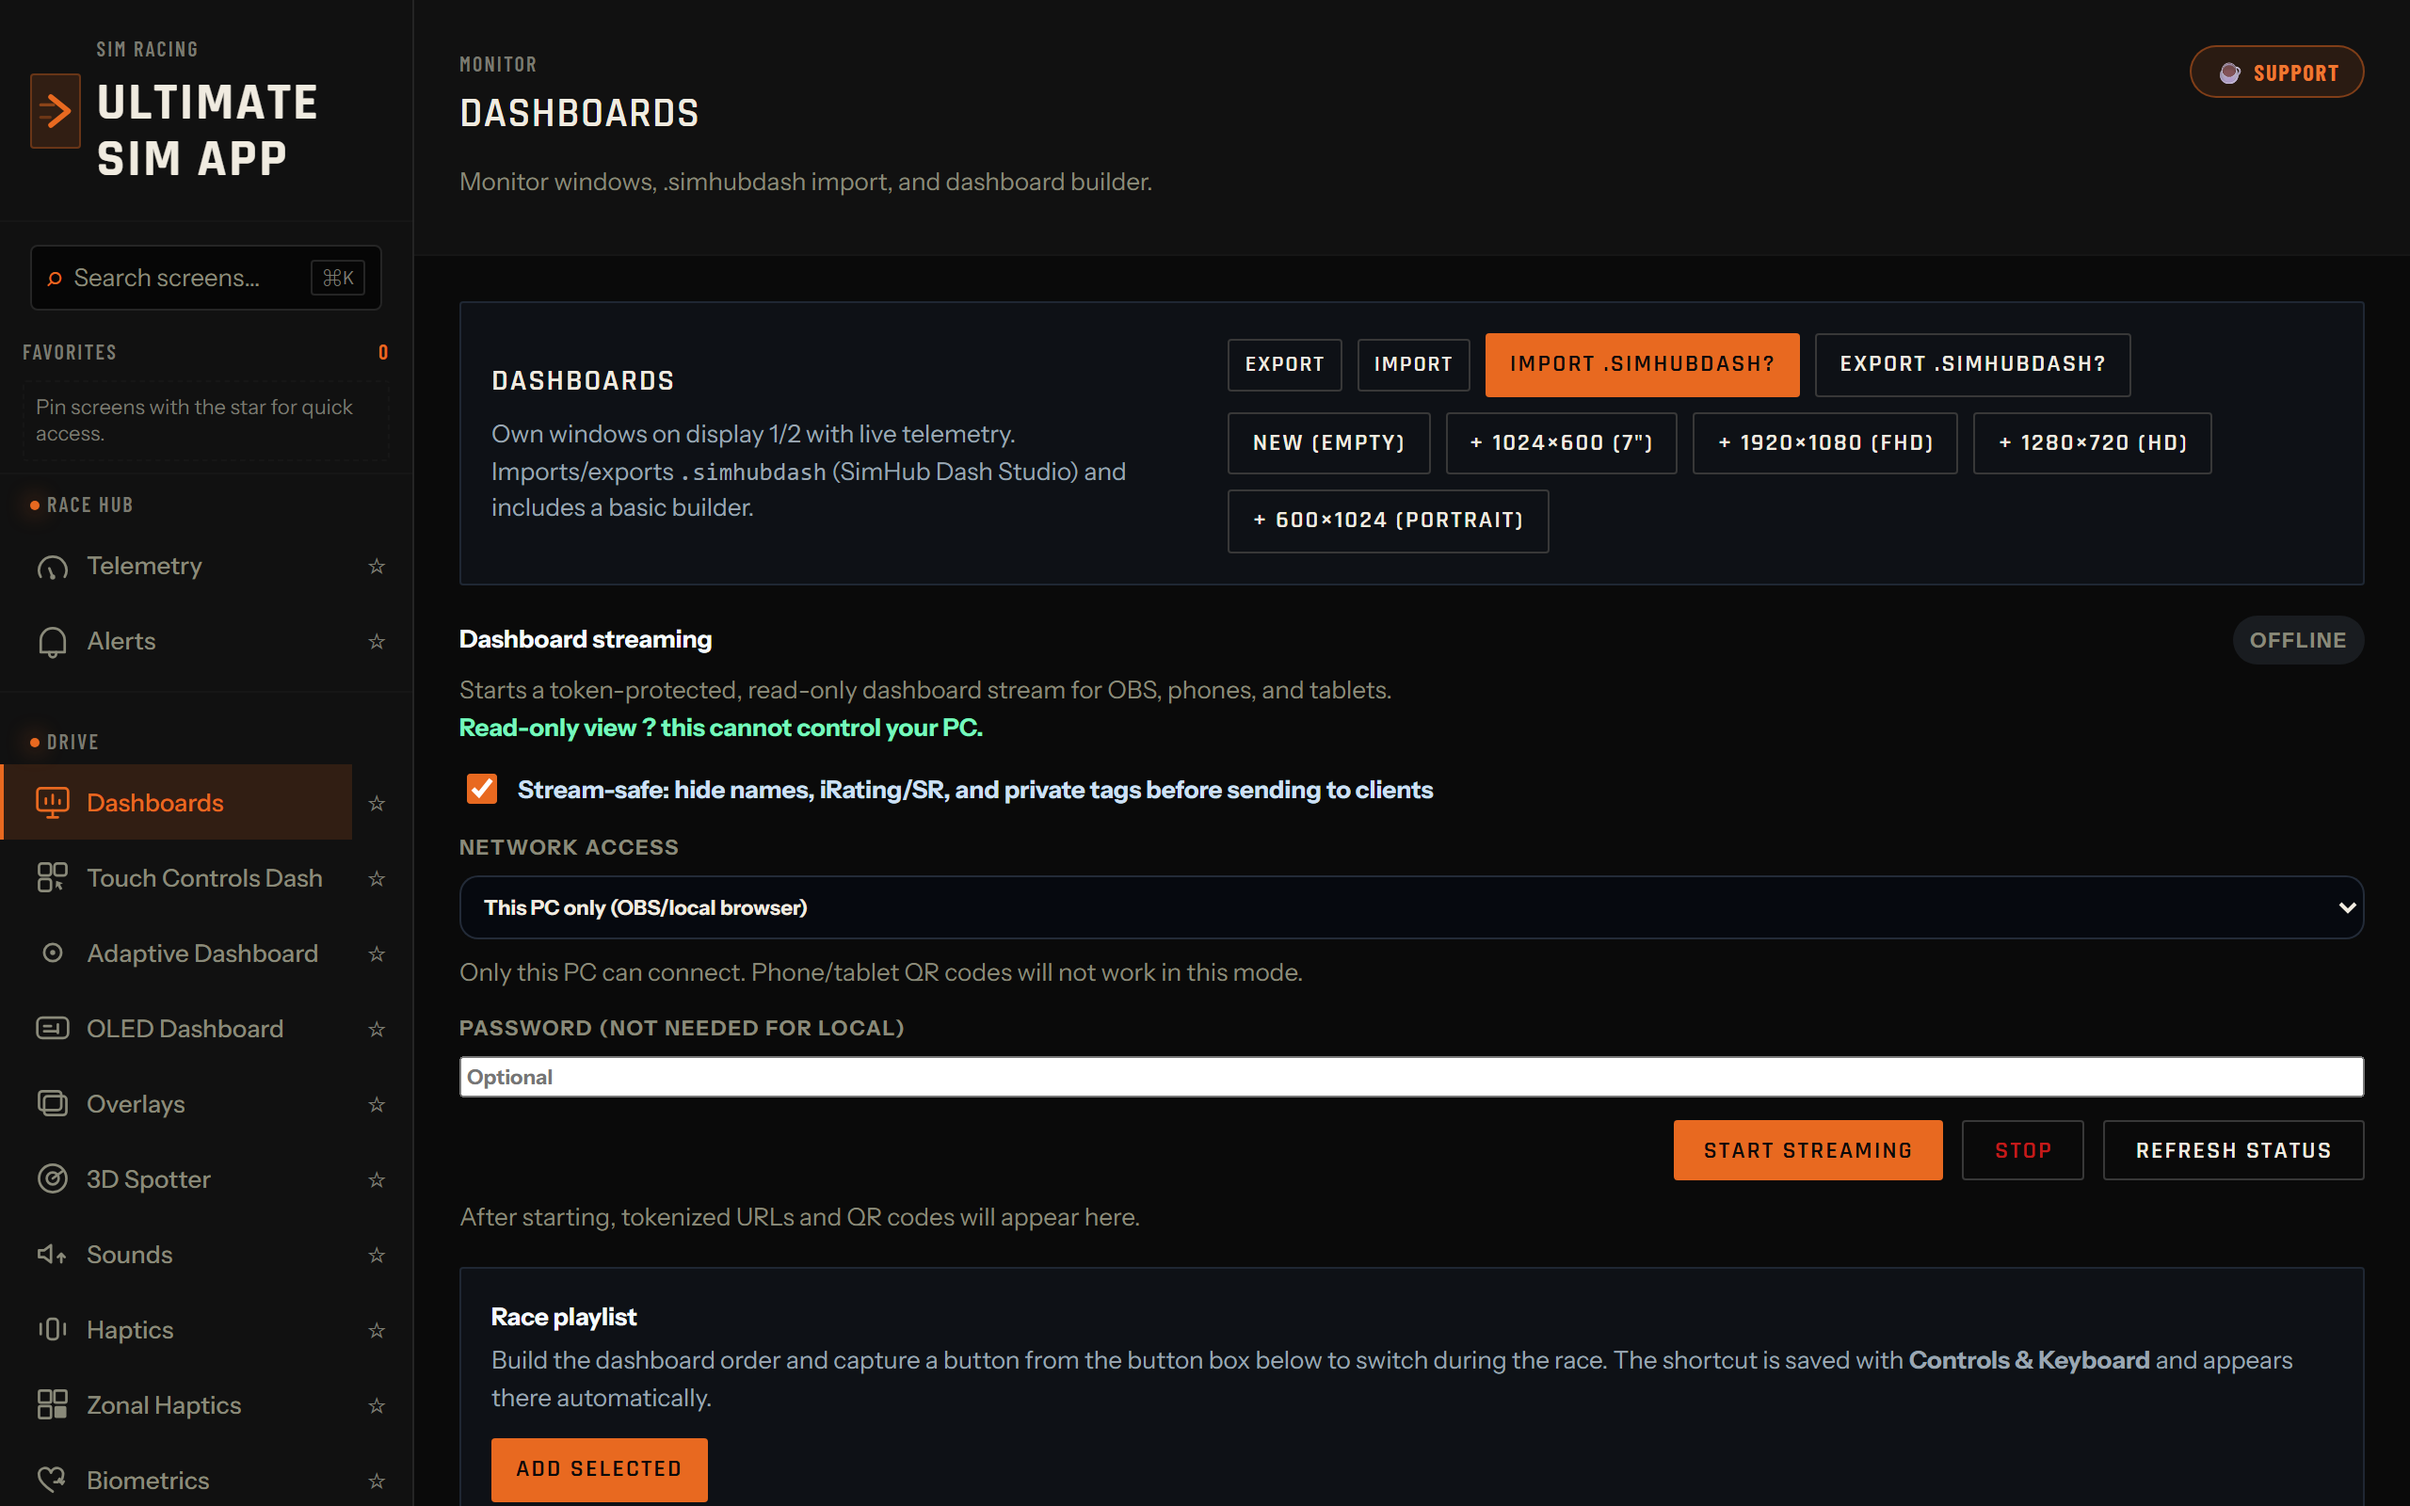
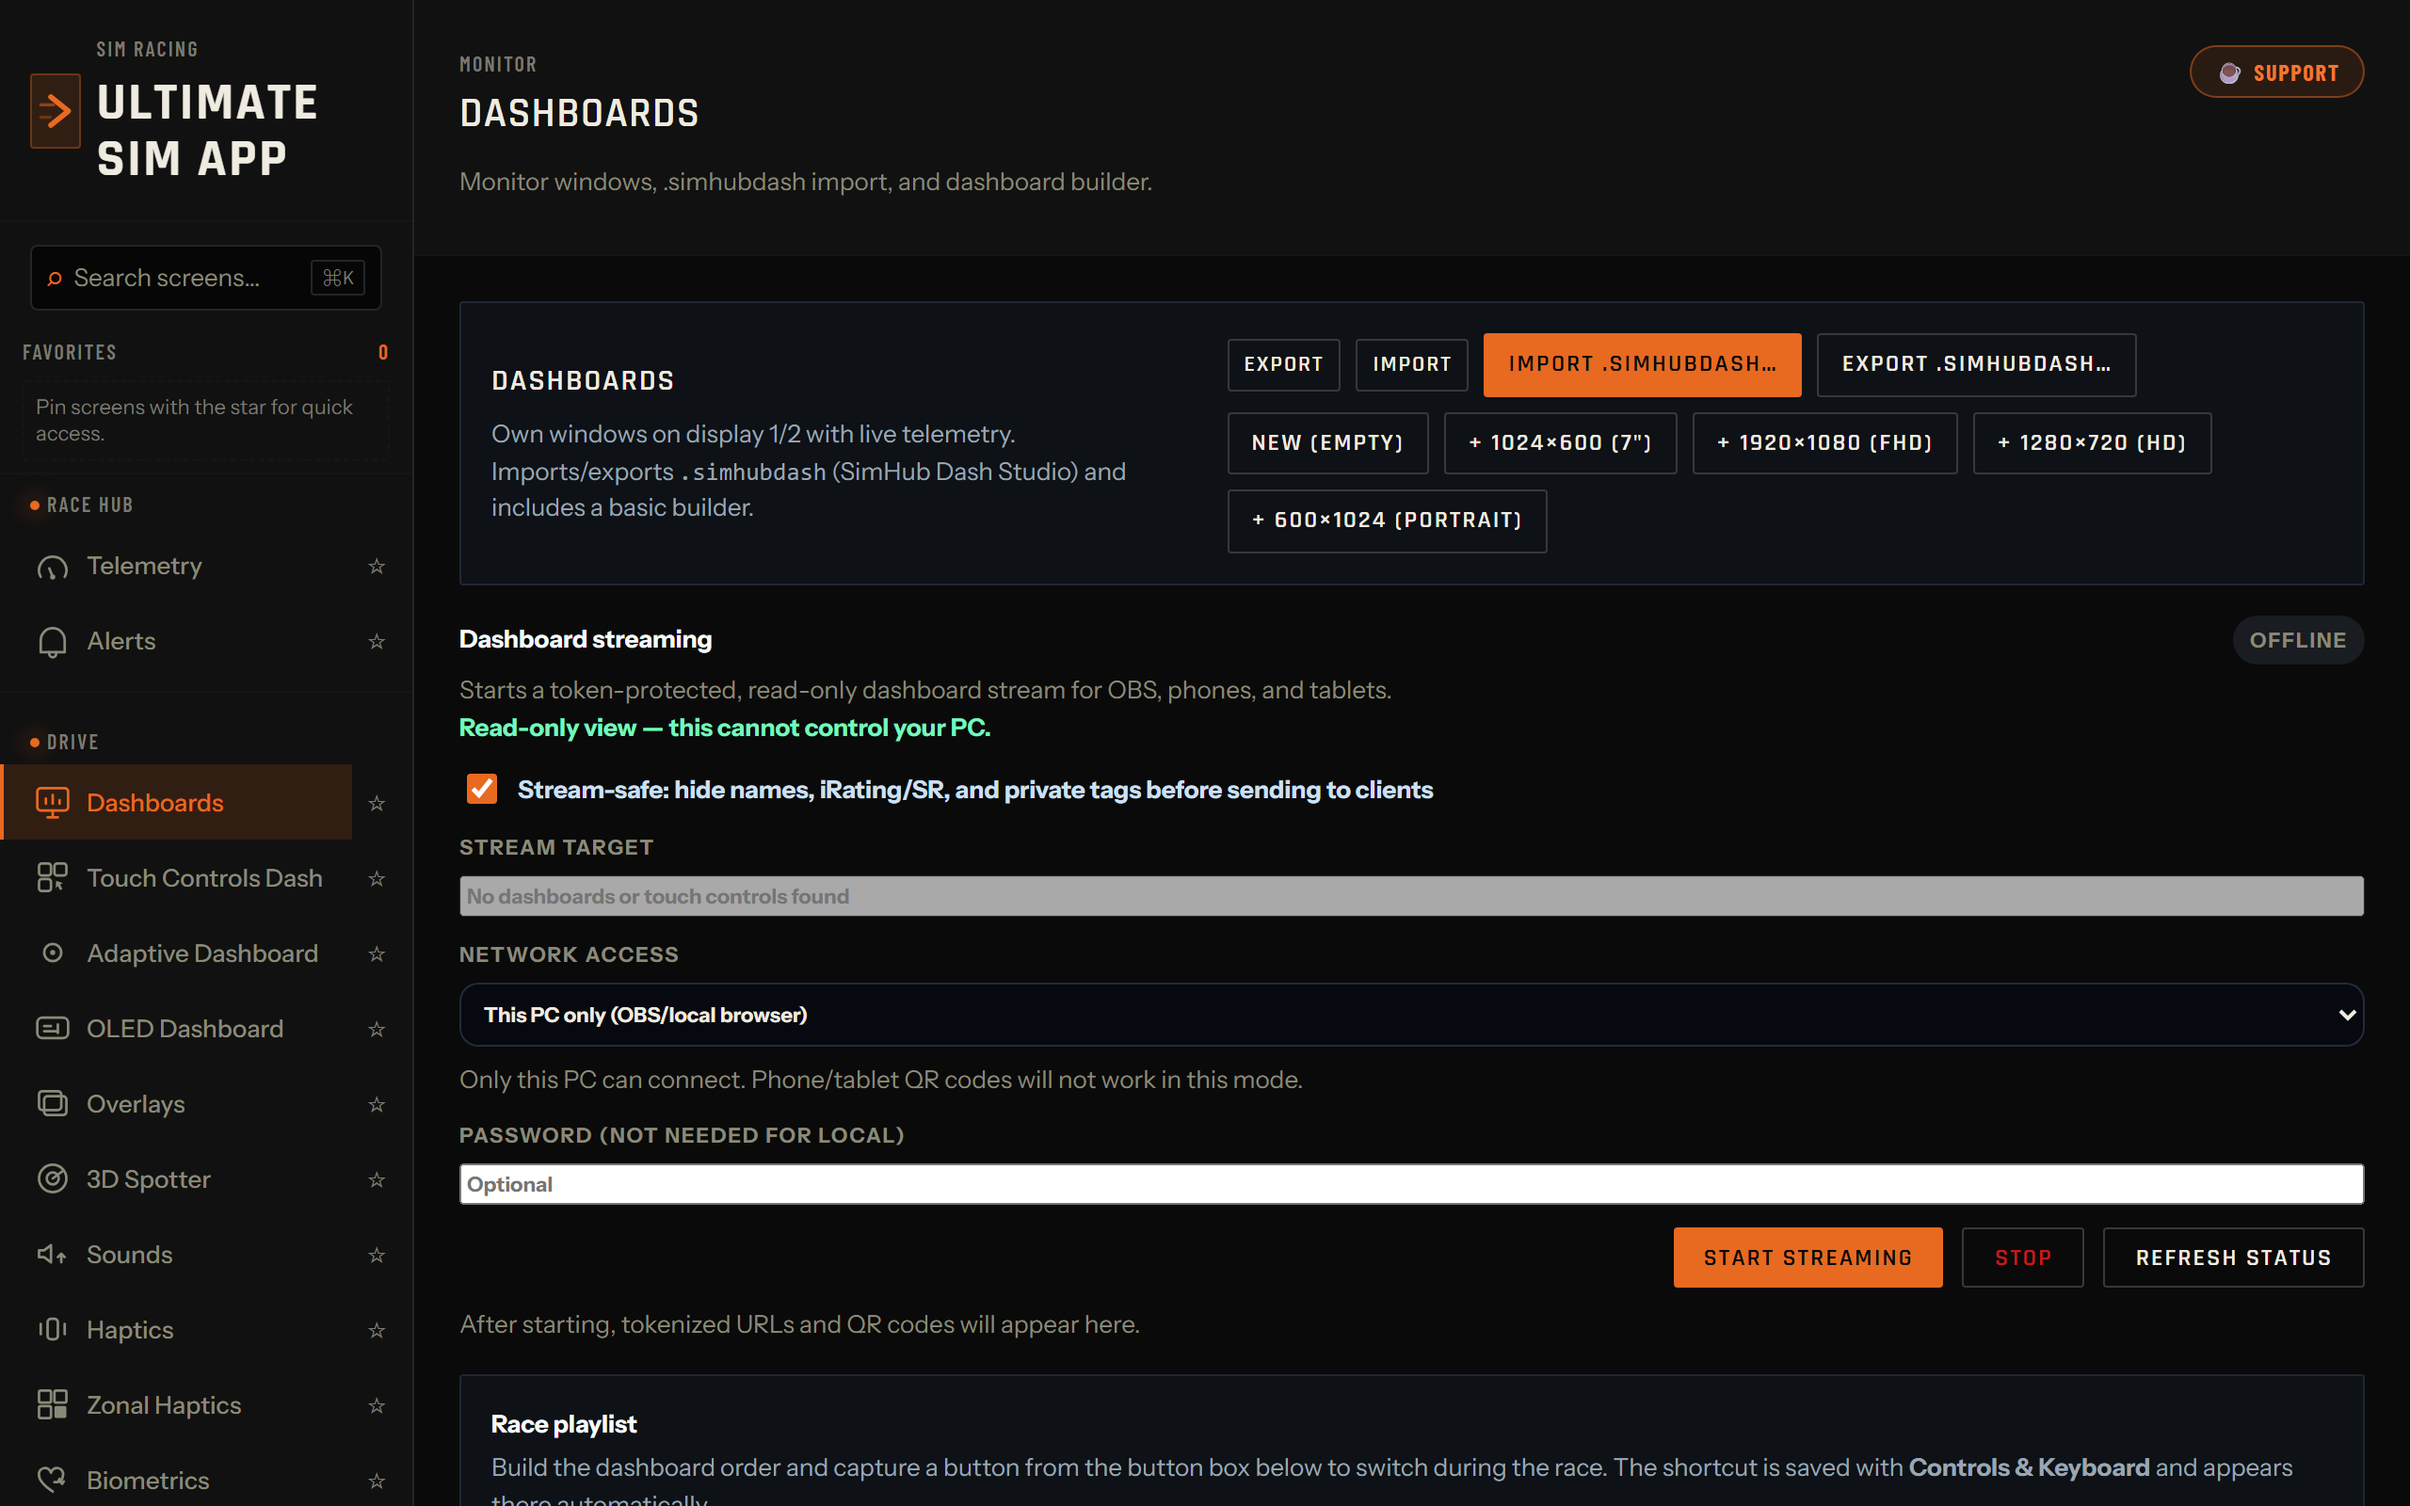
docs(readme): refresh current renderer screenshots

diff --git a/README.md b/README.md
@@ -119,23 +119,31 @@ Ultimate Sim App combines live race telemetry, dashboard composition, transparen
 
 ## Screenshots
 
-The versioned dashboard/contact-sheet images below are historical v2.48 captures. Current-main screenshots are maintained through the real-renderer visual-audit workflow.
+These v2.51 images were captured locally from the current-main React renderer and visual-audit harness with deterministic mock telemetry. They are real UI renders, not generated marketing artwork. Authentication-, simulator-, and hardware-only states remain empty when the harness cannot supply them.
 
-| GT3 DDU dashboard | Race dashboard preset gallery |
+| Current GT3 endurance DDU | Current 336-preset dashboard gallery |
 |---|---|
-| ![GT3 DDU dashboard](app-v2/docs/screenshots/hifi-ddu-v248.png) | ![Race dashboard presets](app-v2/docs/screenshots/dashboard-presets-race-sun-v248.png) |
+| <img src="app-v2/docs/screenshots/dashboard-gt3-endurance-stint.png" alt="Current GT3 endurance dashboard with gear, speed, RPM LEDs, delta, fuel, tyres, and stint telemetry" width="520" /> | <img src="app-v2/docs/screenshots/dashboard-presets-336-gallery.png" alt="Top of the current dashboard renderer gallery showing 336 presets" width="520" /> |
 
-| Live telemetry view | Rev-light configuration |
+| Dashboard editor and protected streaming target | Current race-sun preset family |
 |---|---|
-| ![Telemetry](app-v2/docs/screenshots/telemetry.png) | ![Rev lights](app-v2/docs/screenshots/revlights.png) |
+| <img src="app-v2/docs/screenshots/dashboards.png" alt="Dashboard management screen with editor controls, stream-safe target selector, network access, and preset gallery" width="520" /> | <img src="app-v2/docs/screenshots/dashboard-presets-race-sun.png" alt="Contact sheet of 20 current race-sun dashboard presets rendered with mock telemetry" width="520" /> |
 
-| Dashboards and streaming | Overlays |
+| Live telemetry source and diagnostics | Rev-light presets and LED configuration |
 |---|---|
-| ![Dashboards](app-v2/docs/screenshots/dashboards.png) | ![Overlays](app-v2/docs/screenshots/overlays.png) |
+| <img src="app-v2/docs/screenshots/telemetry.png" alt="Telemetry screen showing mock source selection, live status, diagnostics, and vehicle data" width="520" /> | <img src="app-v2/docs/screenshots/revlights.png" alt="Rev Lights settings with LED preview, shift thresholds, presets, and hardware controls" width="520" /> |
 
-| Settings and updates | v2.48 preset contact sheet |
+| Fuel strategy and Team Fuel LAN | Local AI Coach before the first completed lap |
 |---|---|
-| ![Settings](app-v2/docs/screenshots/settings.png) | <img src="app-v2/docs/screenshots/dashboard-presets-existing-v248.png" alt="v2.48 dashboard preset contact sheet" width="360" /> |
+| <img src="app-v2/docs/screenshots/fuel.png" alt="Fuel strategy showing fuel-to-finish metrics, pit window, stint planner, and Team Fuel LAN room" width="520" /> | <img src="app-v2/docs/screenshots/coach.png" alt="AI Coach summary before a completed lap, with track map, improvement points, debrief, and setup sections" width="520" /> |
+
+| Units and telemetry configuration | Profile backup and saved-configuration safety |
+|---|---|
+| <img src="app-v2/docs/screenshots/settings-units.png" alt="Settings units selector with metric and US choices plus telemetry configuration" width="520" /> | <img src="app-v2/docs/screenshots/settings-configuration-safety.png" alt="Settings profile backup and saved-configuration safety controls with full-profile import disabled" width="520" /> |
+
+| Current overlay widget renderer | All 336 current dashboard presets |
+|---|---|
+| <img src="app-v2/docs/screenshots/overlay-widgets-gallery.png" alt="Minimal-style overlay gallery showing current real-renderer telemetry widgets" width="520" /> | <img src="app-v2/docs/screenshots/dashboard-presets-336-contact-sheet.png" alt="Contact sheet of all 336 current v2.51 dashboard presets rendered by the real dashboard renderer" width="520" /> |
 
 ---
 
@@ -267,10 +275,12 @@ The README screenshots are produced from `app-v2/visual-audit/`:
 cd app-v2
 node visual-audit/shoot-views.mjs
 node visual-audit/shoot-dashboards.mjs
-node visual-audit/shoot-hifi.mjs
+node visual-audit/shoot.mjs minimal
 ```
 
-`shoot-views.mjs` writes candidate captures directly to `app-v2/docs/screenshots/`; review them before committing. `shoot-dashboards.mjs` renders all dashboard presets and contact sheets under ignored `app-v2/visual-audit/` output folders, and `shoot-hifi.mjs` produces working output that must be reviewed before any curated copy is committed. Versioned screenshots can lag current `main`.
+`shoot-views.mjs` captures every registered app view and writes candidate images directly to `app-v2/docs/screenshots/`; review and keep only useful frames. `shoot-dashboards.mjs` renders every `BUILTIN_PRESETS` dashboard through the production dashboard renderer (336 in this v2.51 audit) and writes individual captures, category contact sheets, and a report under ignored `app-v2/visual-audit/` output folders. `shoot.mjs minimal` validates the real overlay-widget gallery (95 registered widgets in this capture) plus representative dashboards under the ignored `shots/` folder.
+
+The committed gallery and contact-sheet images are curated from those real-renderer outputs using the existing image tooling. Standalone files under `visual-audit/hifi/` are audit fixtures and are not used for the current README screenshots.
 
 ---
 
